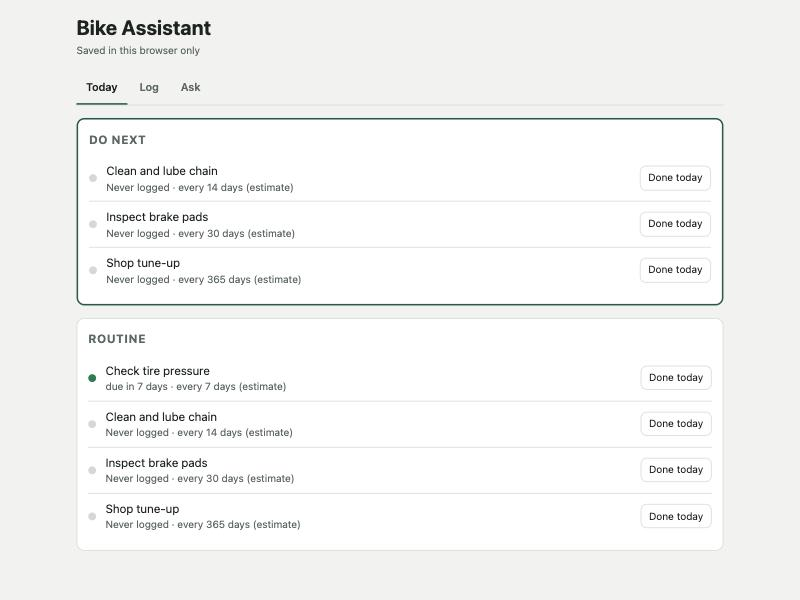
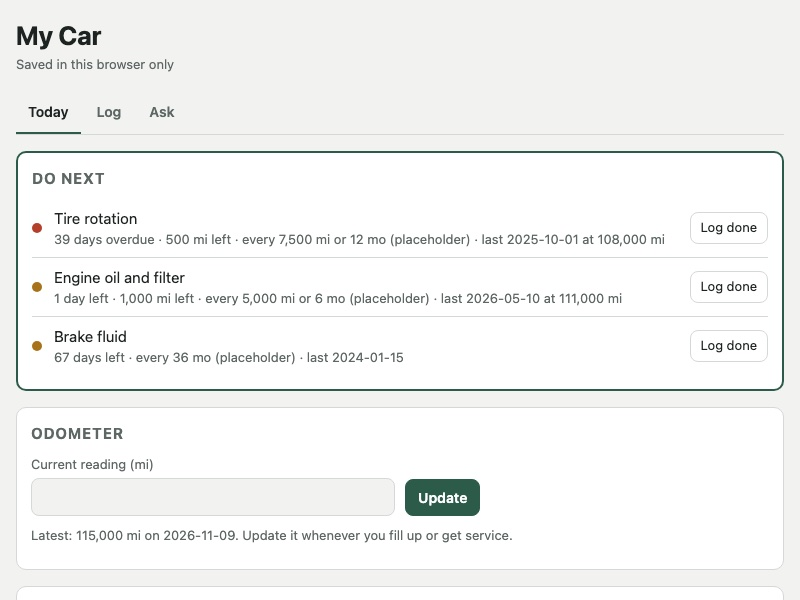
Replace the bike example template with a car starter
The starter now mirrors the car assistant: items due by miles or months,
an odometer, recording past services, deleting records, and intervals
labeled as placeholders. README and screenshot updated.

diff --git a/template/starter.html b/template/starter.html
@@ -3,13 +3,15 @@
 <head>
 <meta charset="utf-8">
 <meta name="viewport" content="width=device-width,initial-scale=1">
-<title>Starter Assistant</title>
+<title>Car Assistant Starter</title>
 <!--
-  Starter assistant: a minimal, working version of the pattern in docs/architecture.md.
+  Car assistant starter: a minimal, working version of the pattern in docs/architecture.md
+  (a small version of the car assistant described in this repo).
   - Open this file in any browser: data saves in that browser (localStorage).
   - Publish it as a Claude Artifact with capabilities {db:{}, sample:{}}: data saves in the
     Artifact database (Claude can read/write it from chat) and the "Ask Claude" box turns on.
-  To make it yours, edit CONFIG below, or ask Claude: "Adapt this starter into a [bike] assistant: ..."
+  To make it yours, edit CONFIG below with the intervals from YOUR owner's manual.
+  To use it for something else (bike, plants, a pet), ask Claude to adapt it; see README.md.
 -->
 <style>
 :root{--bg:#f2f3f1;--surface:#fff;--ink:#1c2320;--muted:#5d6763;--line:#d4d9d5;--accent:#2c5c49;--accent-ink:#fff;
@@ -22,25 +24,28 @@
 body{margin:0;background:var(--bg);color:var(--ink);font-size:15px;line-height:1.5}
 .wrap{max-width:860px;margin:0 auto;padding:16px 16px 48px;display:flex;flex-direction:column;gap:16px}
 h1{font-size:26px;margin:0}h2{font-size:15px;margin:0;text-transform:uppercase;letter-spacing:.06em;color:var(--muted)}
+h3{font-size:14px;margin:6px 0 0}
 .sub{color:var(--muted);font-size:13px}
 .tabs{display:flex;gap:4px;border-bottom:1px solid var(--line);overflow-x:auto}
 .tabs button{border:0;background:none;color:var(--muted);font:inherit;font-weight:600;font-size:14px;padding:10px 12px;border-bottom:2px solid transparent;cursor:pointer;white-space:nowrap}
 .tabs button[aria-selected="true"]{color:var(--ink);border-bottom-color:var(--accent)}
+.panel{display:flex;flex-direction:column;gap:16px}
 .card{background:var(--surface);border:1px solid var(--line);border-radius:10px;padding:14px;display:flex;flex-direction:column;gap:10px;min-width:0}
 .next{border:2px solid var(--accent)}
 .row{display:grid;grid-template-columns:12px minmax(0,1fr) auto;gap:10px;align-items:center;padding:8px 0;border-top:1px solid var(--line)}
-.row:first-of-type{border-top:0}
+.row:first-child{border-top:0}
 .dot{width:10px;height:10px;border-radius:50%}.ok{background:var(--ok)}.soon{background:var(--soon)}.over{background:var(--over)}.none{background:var(--line)}
 .row small{display:block;color:var(--muted);font-size:13px}
 button.act{border:1px solid var(--accent);background:var(--accent);color:var(--accent-ink);border-radius:8px;padding:7px 12px;font:inherit;font-weight:600;font-size:14px;cursor:pointer}
-button.ghost{border:1px solid var(--line);background:none;color:var(--ink);border-radius:8px;padding:5px 10px;font:inherit;font-size:13px;cursor:pointer}
+button.ghost{border:1px solid var(--line);background:none;color:var(--ink);border-radius:8px;padding:5px 10px;font:inherit;font-size:13px;cursor:pointer;white-space:nowrap}
 form.grid{display:grid;grid-template-columns:repeat(auto-fit,minmax(140px,1fr));gap:10px;align-items:end}
 label{display:flex;flex-direction:column;gap:4px;font-size:13px;color:var(--muted);min-width:0}
-input,textarea{font:inherit;color:var(--ink);background:var(--bg);border:1px solid var(--line);border-radius:8px;padding:8px;width:100%}
+input,textarea,select{font:inherit;color:var(--ink);background:var(--bg);border:1px solid var(--line);border-radius:8px;padding:8px;width:100%}
 .wide{grid-column:1/-1}
-.empty{color:var(--muted);border:1px dashed var(--line);border-radius:8px;padding:14px}
+.empty{color:var(--muted);border:1px dashed var(--line);border-radius:8px;padding:14px;margin:0}
+.msg{font-size:13px;color:var(--over);min-height:0}
 .answer{white-space:pre-wrap}
-:is(button,input,textarea):focus-visible{outline:2px solid var(--accent);outline-offset:2px}
+:is(button,input,textarea,select):focus-visible{outline:2px solid var(--accent);outline-offset:2px}
 [hidden]{display:none!important}
 </style>
 </head>
@@ -53,20 +58,41 @@ input,textarea{font:inherit;color:var(--ink);background:var(--bg);border:1px sol
     <button role="tab" data-tab="ask" aria-selected="false">Ask</button>
   </nav>
 
-  <section id="tab-today" class="card next" role="tabpanel">
-    <h2>Do next</h2><div id="next"></div>
-  </section>
-  <section id="tab-today2" class="card" role="tabpanel">
-    <h2>Routine</h2><div id="tasks"></div>
-  </section>
+  <div id="tab-today" class="panel" role="tabpanel">
+    <section class="card next"><h2>Do next</h2><div id="next"></div></section>
+
+    <section class="card">
+      <h2>Odometer</h2>
+      <form class="grid" id="odoform" autocomplete="off">
+        <label>Current reading (mi)<input id="o-mi" type="number" min="0" step="1" inputmode="numeric" required></label>
+        <div><button class="act" type="submit">Update</button></div>
+      </form>
+      <div class="sub" id="odonote"></div><div class="msg" id="odomsg"></div>
+    </section>
+
+    <section class="card">
+      <h2>Maintenance</h2>
+      <p class="sub" style="margin:0">Whichever limit comes first, miles or months. The intervals below are placeholders: replace them with your owner's manual (edit CONFIG, or ask Claude).</p>
+      <div id="tasks"></div>
+      <h3 id="svc">Record a service</h3>
+      <form class="grid" id="svcform" autocomplete="off">
+        <label>Item<select id="s-task" required></select></label>
+        <label>Date done<input type="date" id="s-date" required></label>
+        <label>Odometer then (mi)<input id="s-mi" type="number" min="0" step="1" inputmode="numeric" placeholder="optional"></label>
+        <div><button class="act" type="submit">Save</button></div>
+      </form>
+      <div class="sub">Use this for work done today or months ago (e.g. "oil change on Sep 18 at 113,240 mi").</div>
+    </section>
+  </div>
 
   <section id="tab-log" class="card" role="tabpanel" hidden>
     <h2>Add a record</h2>
     <form class="grid" id="logform" autocomplete="off">
       <label>Date<input type="date" id="f-date" required></label>
-      <label class="wide">What happened<input id="f-title" maxlength="120" required placeholder="e.g. Replaced chain"></label>
-      <label>Cost $ (optional)<input id="f-cost" type="number" min="0" step="0.01" inputmode="decimal"></label>
-      <label class="wide">Notes<textarea id="f-note" rows="2" maxlength="600" placeholder="What the shop said, what to watch"></textarea></label>
+      <label class="wide">What happened<input id="f-title" maxlength="120" required placeholder="e.g. Check-engine light came on; shop found loose gas cap"></label>
+      <label>Odometer (mi)<input id="f-mi" type="number" min="0" step="1" inputmode="numeric" placeholder="optional"></label>
+      <label>Cost $<input id="f-cost" type="number" min="0" step="0.01" inputmode="decimal" placeholder="optional"></label>
+      <label class="wide">Notes<textarea id="f-note" rows="2" maxlength="600" placeholder="What the shop said, what was quoted vs billed, what to watch"></textarea></label>
       <div><button class="act" type="submit">Save record</button></div>
     </form>
     <h2>History</h2><div id="log"></div>
@@ -75,9 +101,9 @@ input,textarea{font:inherit;color:var(--ink);background:var(--bg);border:1px sol
 
   <section id="tab-ask" class="card" role="tabpanel" hidden>
     <h2>Ask Claude</h2>
-    <p class="sub" id="asknote">Claude sees your routine and records for this one question. It has no memory between questions.</p>
+    <p class="sub" id="asknote">Claude sees your odometer, maintenance status and records for this one question. It has no memory between questions.</p>
     <form id="askform" autocomplete="off" style="display:flex;flex-direction:column;gap:8px">
-      <textarea id="q" rows="3" maxlength="800" placeholder="e.g. What should I do this weekend, and why?"></textarea>
+      <textarea id="q" rows="3" maxlength="800" placeholder="e.g. I'm driving 600 miles next weekend. What should I check or do first?"></textarea>
       <div><button class="act" type="submit" id="askbtn">Ask</button></div>
     </form>
     <div class="answer" id="answer" aria-live="polite"></div>
@@ -87,18 +113,22 @@ input,textarea{font:inherit;color:var(--ink);background:var(--bg);border:1px sol
 <script>
 /* ===== 1. CONFIG: edit this to make it yours (reference data lives in the page) ===== */
 const CONFIG = {
-  name: "Bike Assistant",
-  subject: "my road bike",
-  // Routine tasks. everyDays is the interval; "source" says where the interval came from.
+  name: "My Car",
+  subject: "my car",            // e.g. "my 2015 Nissan Rogue", so Ask Claude knows the vehicle
+  // Each item is due at everyMi miles OR everyMo months, whichever comes first. everyMi: null = time only.
+  // source: where the interval came from. These are common placeholders, NOT your car's schedule.
   tasks: [
-    { id: "tires",  name: "Check tire pressure",        everyDays: 7,   source: "estimate" },
-    { id: "chain",  name: "Clean and lube chain",       everyDays: 14,  source: "estimate" },
-    { id: "brakes", name: "Inspect brake pads",         everyDays: 30,  source: "estimate" },
-    { id: "tuneup", name: "Shop tune-up",               everyDays: 365, source: "estimate" }
+    { id: "oil",    name: "Engine oil and filter", everyMi: 5000,  everyMo: 6,  source: "placeholder" },
+    { id: "rotate", name: "Tire rotation",         everyMi: 7500,  everyMo: 12, source: "placeholder" },
+    { id: "cabin",  name: "Cabin air filter",      everyMi: 15000, everyMo: 12, source: "placeholder" },
+    { id: "air",    name: "Engine air filter",     everyMi: 30000, everyMo: 36, source: "placeholder" },
+    { id: "brakefl",name: "Brake fluid",           everyMi: null,  everyMo: 36, source: "placeholder" },
+    { id: "wipers", name: "Wiper blades",          everyMi: null,  everyMo: 12, source: "placeholder" }
   ]
 };
 
 /* ===== 2. STORAGE: Artifact database when available, else this browser ===== */
+// Collections: "log" (free records), "done" (services: {task, date, mi}), "odo" (odometer readings: {date, mi}).
 const Store = {
   db: null,
   async init() {
@@ -125,16 +155,43 @@ const Store = {
 /* ===== 3. LOGIC: status is computed from data, never typed ===== */
 const $ = id => document.getElementById(id);
 const today = () => { const d = new Date(); return new Date(d - d.getTimezoneOffset() * 6e4).toISOString().slice(0, 10); };
-const daysSince = d => Math.floor((Date.parse(today()) - Date.parse(d)) / 864e5);
-let S = { log: [], done: [] };
+const DAY = 864e5;
+const fmt = n => Number(n).toLocaleString("en-US");
+const numOrNull = v => v === "" || v == null ? null : Number(v);
+const addMonths = (date, n) => { const [y, m, d] = date.split("-").map(Number); return new Date(Date.UTC(y, m - 1 + n, d)).toISOString().slice(0, 10); };
+let S = { log: [], done: [], odo: [] };
 
-function status(task) {
-  const last = S.done.filter(d => d.task === task.id).map(d => d.date).sort().pop();
-  if (!last) return { st: "none", text: "Never logged", frac: 2 };
-  const left = task.everyDays - daysSince(last), frac = daysSince(last) / task.everyDays;
-  return { st: frac >= 1 ? "over" : frac >= 0.85 ? "soon" : "ok", frac, last,
-    text: left < 0 ? -left + " days overdue" : left === 0 ? "due today" : "due in " + left + " days" };
+// Current odometer = highest reading anywhere (odometers only go up).
+function odometer() {
+  let best = null;
+  for (const r of [...S.odo, ...S.done, ...S.log]) if (r.mi != null && Number.isFinite(+r.mi) && (!best || +r.mi > best.mi)) best = { mi: +r.mi, date: r.date };
+  return best;
 }
+const lastDone = t => S.done.filter(d => d.task === t.id).sort((a, b) => a.date.localeCompare(b.date) || (a.mi || 0) - (b.mi || 0)).pop();
+
+function status(t) {
+  const last = lastDone(t);
+  if (!last) return { st: "none", frac: -1, text: "No service recorded yet" };
+  const parts = []; let frac = 0;
+  if (t.everyMo) {
+    const due = addMonths(last.date, t.everyMo), span = Date.parse(due) - Date.parse(last.date);
+    const dLeft = Math.round((Date.parse(due) - Date.parse(today())) / DAY);
+    frac = Math.max(frac, (Date.parse(today()) - Date.parse(last.date)) / span);
+    const days = n => n + (n === 1 ? " day" : " days");
+    parts.push(dLeft < 0 ? days(-dLeft) + " overdue" : dLeft === 0 ? "due today" : days(dLeft) + " left");
+  }
+  const cur = odometer();
+  if (t.everyMi) {
+    if (last.mi == null || !cur) parts.push("miles unknown");
+    else {
+      const used = cur.mi - last.mi, left = t.everyMi - used;
+      frac = Math.max(frac, used / t.everyMi);
+      parts.push(left < 0 ? fmt(-left) + " mi overdue" : fmt(left) + " mi left");
+    }
+  }
+  return { st: frac >= 1 ? "over" : frac >= 0.85 ? "soon" : "ok", frac, last, text: parts.join(" · ") };
+}
+const every = t => "every " + [t.everyMi ? fmt(t.everyMi) + " mi" : null, t.everyMo ? t.everyMo + " mo" : null].filter(Boolean).join(" or ");
 const el = (tag, attrs = {}, ...kids) => { const e = document.createElement(tag);
   for (const [k, v] of Object.entries(attrs)) k.startsWith("on") ? e.addEventListener(k.slice(2), v) : e.setAttribute(k, v);
   e.append(...kids.filter(k => k != null)); return e; };
@@ -142,47 +199,94 @@ const el = (tag, attrs = {}, ...kids) => { const e = document.createElement(tag)
 /* ===== 4. RENDER ===== */
 function taskRow(t) {
   const s = status(t);
+  const lastTxt = s.last ? "last " + s.last.date + (s.last.mi != null ? " at " + fmt(s.last.mi) + " mi" : "") : "";
   return el("div", { class: "row" }, el("span", { class: "dot " + s.st }),
-    el("div", {}, t.name, el("small", {}, s.text + " · every " + t.everyDays + " days (" + t.source + ")")),
-    el("button", { class: "ghost", type: "button", onclick: () => markDone(t) }, "Done today"));
+    el("div", {}, t.name, el("small", {}, s.text + " · " + every(t) + " (" + t.source + ")" + (lastTxt ? " · " + lastTxt : ""))),
+    el("button", { class: "ghost", type: "button", onclick: () => prefillService(t) }, "Log done"));
+}
+function infoRow(text, sub) {
+  return el("div", { class: "row" }, el("span", { class: "dot none" }), el("div", {}, text, sub ? el("small", {}, sub) : null), el("span"));
+}
+function deleteButton(col, id) {
+  // Two taps to delete (no confirm() dialog: sandboxed pages may block it).
+  const b = el("button", { class: "ghost", type: "button" }, "Delete");
+  let armed = false, timer;
+  b.addEventListener("click", async () => {
+    if (!armed) { armed = true; b.textContent = "Tap again"; timer = setTimeout(() => { armed = false; b.textContent = "Delete"; }, 3000); return; }
+    clearTimeout(timer); b.disabled = true;
+    try { await Store.remove(col, id); S[col] = S[col].filter(r => r.id !== id); render(); }
+    catch (e) { b.disabled = false; b.textContent = "Couldn't delete"; }
+  });
+  return b;
 }
 function render() {
   $("title").textContent = CONFIG.name;
   $("mode").textContent = Store.db ? "Saved to this Artifact's database" : "Saved in this browser only";
-  const ranked = CONFIG.tasks.map(t => [t, status(t)]).filter(([, s]) => s.st !== "ok").sort((a, b) => b[1].frac - a[1].frac).slice(0, 3);
-  $("next").replaceChildren(...(ranked.length ? ranked.map(([t]) => taskRow(t))
-    : [el("p", { class: "empty" }, "Nothing due. You're caught up.")]));
+  const cur = odometer();
+  $("odonote").textContent = cur ? "Latest: " + fmt(cur.mi) + " mi on " + cur.date + ". Update it whenever you fill up or get service."
+    : "Not set yet. Mileage-based items can't be checked until you enter it.";
+
+  // Do next: missing odometer, then overdue/soon by urgency, then setup reminder. Max 3.
+  const next = [];
+  if (!cur) next.push(infoRow("Enter your current odometer", "Below, under Odometer."));
+  CONFIG.tasks.map(t => [t, status(t)]).filter(([, s]) => s.st === "over" || s.st === "soon")
+    .sort((a, b) => b[1].frac - a[1].frac).forEach(([t]) => next.push(taskRow(t)));
+  const unset = CONFIG.tasks.filter(t => !lastDone(t)).length;
+  if (unset) next.push(infoRow(unset + " of " + CONFIG.tasks.length + " items have no service recorded",
+    "Add when each was last done under Record a service (a receipt or your service history has the dates)."));
+  $("next").replaceChildren(...(next.length ? next.slice(0, 3) : [el("p", { class: "empty" }, "Nothing due. You're caught up.")]));
   $("tasks").replaceChildren(...CONFIG.tasks.map(taskRow));
-  const log = [...S.log].sort((a, b) => (b.date || "").localeCompare(a.date || ""));
-  $("log").replaceChildren(...(log.length ? log.map(r => el("div", { class: "row" }, el("span", { class: "dot none" }),
-      el("div", {}, r.date + " · " + r.title, r.note ? el("small", {}, r.note) : null),
-      el("span", { class: "sub" }, r.cost != null ? "$" + Number(r.cost).toFixed(2) : "")))
+
+  const hist = [
+    ...S.log.map(r => ({ col: "log", r, title: r.title, note: r.note, cost: r.cost })),
+    ...S.done.map(r => ({ col: "done", r, title: (CONFIG.tasks.find(t => t.id === r.task) || { name: r.task }).name + " (service)" }))
+  ].sort((a, b) => (b.r.date || "").localeCompare(a.r.date || ""));
+  $("log").replaceChildren(...(hist.length ? hist.map(h => el("div", { class: "row" }, el("span", { class: "dot none" }),
+      el("div", {}, h.r.date + " · " + h.title,
+        el("small", {}, [h.r.mi != null ? fmt(h.r.mi) + " mi" : null, h.cost != null ? "$" + Number(h.cost).toFixed(2) : null, h.note || null].filter(Boolean).join(" · ") || null)),
+      deleteButton(h.col, h.r.id)))
     : [el("p", { class: "empty" }, "No records yet. Add one above, or send Claude a photo of a receipt and ask it to log it here.")]));
   $("export").hidden = !!Store.db;
 }
 
 /* ===== 5. ACTIONS ===== */
-async function markDone(t) {
-  const row = { task: t.id, date: today() };
-  await Store.put("done", t.id + "-" + row.date, row);
-  S.done.push({ id: t.id + "-" + row.date, ...row }); render();
+function prefillService(t) {
+  $("s-task").value = t.id; $("s-date").value = today();
+  const cur = odometer(); $("s-mi").value = cur ? cur.mi : "";
+  $("svc").scrollIntoView({ behavior: "smooth", block: "start" }); $("s-mi").focus({ preventScroll: true });
 }
+$("svcform").addEventListener("submit", async e => {
+  e.preventDefault();
+  const row = { task: $("s-task").value, date: $("s-date").value, mi: numOrNull($("s-mi").value) };
+  const id = row.task + "-" + row.date;
+  await Store.put("done", id, row); S.done = S.done.filter(r => r.id !== id).concat({ id, ...row });
+  $("s-mi").value = ""; render();
+});
+$("odoform").addEventListener("submit", async e => {
+  e.preventDefault();
+  const mi = Number($("o-mi").value), cur = odometer();
+  if (cur && mi < cur.mi) { $("odomsg").textContent = "That's lower than an earlier reading (" + fmt(cur.mi) + " mi). Check the number."; return; }
+  $("odomsg").textContent = "";
+  const row = { date: today(), mi }, id = row.date;
+  await Store.put("odo", id, row); S.odo = S.odo.filter(r => r.id !== id).concat({ id, ...row });
+  e.target.reset(); render();
+});
 $("logform").addEventListener("submit", async e => {
   e.preventDefault();
-  const cost = $("f-cost").value;
-  const row = { date: $("f-date").value, title: $("f-title").value.trim(), note: $("f-note").value.trim(), cost: cost === "" ? null : Number(cost) };
+  const row = { date: $("f-date").value, title: $("f-title").value.trim(), note: $("f-note").value.trim(),
+    mi: numOrNull($("f-mi").value), cost: numOrNull($("f-cost").value) };
   const id = row.date + "-" + Date.now().toString(36);
   await Store.put("log", id, row); S.log.push({ id, ...row });
   e.target.reset(); $("f-date").value = today(); render();
 });
 $("export").addEventListener("click", () => {
   const blob = new Blob([JSON.stringify(S, null, 2)], { type: "application/json" });
-  const a = el("a", { href: URL.createObjectURL(blob), download: "assistant-data.json" }); a.click();
+  const a = el("a", { href: URL.createObjectURL(blob), download: "car-assistant-data.json" }); a.click();
 });
 document.querySelectorAll(".tabs button").forEach(b => b.addEventListener("click", () => {
   document.querySelectorAll(".tabs button").forEach(x => x.setAttribute("aria-selected", x === b));
   const t = b.dataset.tab;
-  $("tab-today").hidden = $("tab-today2").hidden = t !== "today"; $("tab-log").hidden = t !== "log"; $("tab-ask").hidden = t !== "ask";
+  $("tab-today").hidden = t !== "today"; $("tab-log").hidden = t !== "log"; $("tab-ask").hidden = t !== "ask";
 }));
 
 /* Ask Claude: only inside a Claude Artifact with the `sample` capability. No memory, so send everything it needs. */
@@ -190,8 +294,11 @@ let sample = null;
 $("askform").addEventListener("submit", async e => {
   e.preventDefault();
   const q = $("q").value.trim(); if (!q || !sample) return;
-  const data = { today: today(), routine: CONFIG.tasks.map(t => ({ name: t.name, everyDays: t.everyDays, ...status(t) })), records: S.log.slice(-50) };
-  const prompt = "You are a practical assistant for " + CONFIG.subject + ". Use only the data below; say when the data can't answer. " +
+  const data = { today: today(), vehicle: CONFIG.subject, odometer: odometer(),
+    maintenance: CONFIG.tasks.map(t => { const s = status(t); return { name: t.name, interval: every(t), intervalSource: t.source, status: s.st, detail: s.text, last: s.last || null }; }),
+    records: S.log.slice(-50) };
+  const prompt = "You are a practical car-maintenance assistant for " + CONFIG.subject + ". Use only the data below and general car knowledge; " +
+    "say when the data can't answer, and say when an interval is a placeholder rather than the manufacturer's. " +
     "Answer in at most 6 short lines, most important first.\n\nDATA:\n" + JSON.stringify(data) + "\n\nQUESTION: " + q;
   $("askbtn").disabled = true; $("answer").textContent = "Thinking…";
   try { const r = await sample(prompt, { cache: false, onText: ({ text }) => { $("answer").textContent = text; } }); $("answer").textContent = r.text; }
@@ -201,9 +308,10 @@ $("askform").addEventListener("submit", async e => {
 
 /* ===== 6. START ===== */
 (async () => {
-  $("f-date").value = today();
+  $("f-date").value = $("s-date").value = today();
+  $("s-task").replaceChildren(...CONFIG.tasks.map(t => el("option", { value: t.id }, t.name)));
   await Store.init();
-  try { [S.log, S.done] = await Promise.all([Store.all("log"), Store.all("done")]); } catch (e) { S = { log: [], done: [] }; }
+  try { [S.log, S.done, S.odo] = await Promise.all([Store.all("log"), Store.all("done"), Store.all("odo")]); } catch (e) { S = { log: [], done: [], odo: [] }; }
   render();
   if (window.claude && typeof claude.use === "function") { try { sample = await claude.use("sample"); } catch (e) { sample = null; } }
   if (!sample) { $("askform").hidden = true; $("asknote").textContent = "Ask Claude works when this page is published as a Claude Artifact with the sample capability."; }

diff --git a/README.md b/README.md
@@ -38,9 +38,11 @@ Which capabilities you get depends on your plan and organization settings.
 
 ## Or start from the template (10 minutes)
 
-[template/starter.html](template/starter.html) is a working, minimal assistant: a routine with computed due dates, a "Do next" box, a records log, and an Ask Claude box. It's set up as a bike assistant as an example.
+[template/starter.html](template/starter.html) is a working, cut-down version of my car assistant: maintenance items due by miles or months (whichever comes first), an odometer, a "Do next" box, a service and repair log, and an Ask Claude box. The intervals are marked as placeholders; replace them from your owner's manual. It skips the 3D model, watch list and dent tracker. Add those later with the prompts in [prompts/01-car-assistant.md](prompts/01-car-assistant.md).
 
-![Starter template: Do next box and routine list](docs/img/starter.jpg)
+![Car starter template: Do next box with an overdue tire rotation, oil change due soon, and the odometer](docs/img/starter.jpg)
+
+*The screenshot uses example data.*
 
 **Try it locally:**
 
@@ -54,14 +56,16 @@ open claude-life-assistants/template/starter.html
 
 (On Windows or Linux, double-click the file instead.) Data saves in that browser.
 
-**Make it yours with Claude:** attach `starter.html` to a new chat and paste:
+**Make it yours with Claude:** attach `starter.html` (and a photo of your owner's manual's maintenance schedule) to a new chat and paste:
 
 ```text
-Adapt this starter into an assistant for [my bike / my plants / my dog / my home lab].
-Keep its structure: CONFIG at the top, storage that uses the Artifact database when available, computed "Do next".
-Replace CONFIG.tasks with real intervals for [subject] and tell me the source for each interval, or mark it "estimate".
-Then publish it as an Artifact with capabilities {db, sample}, with every db collection readable and writable only by editors.
+This is a starter car assistant. My car is a [year make model], currently at [odometer] miles.
+Replace CONFIG.tasks with the maintenance schedule from the attached manual pages. Set each item's source to the page it came from, or "estimate" if it isn't in the manual.
+Keep the structure: CONFIG at the top, storage that uses the Artifact database when available, computed "Do next".
+Then publish it as an Artifact with capabilities {db, sample}, with every db collection (log, done, odo) readable and writable only by editors.
 ```
+
+Not a car? Use the same file: *"Adapt this starter into an assistant for [my bike / my plants / my dog]. Swap the miles limit for whatever usage counter fits (ride hours, none) and keep everything else."*
 
 ---
 
@@ -82,7 +86,7 @@ prompts/
   02-room-assistant.md       Build prompt + weekly prompts for a room assistant
   03-wardrobe-assistant.md   Build prompt + weekly prompts for a wardrobe/stylist
 template/
-  starter.html               Minimal working assistant; works offline, lights up inside Claude
+  starter.html               Minimal working car assistant; works offline, lights up inside Claude
   sample-data/*.json         Anonymized example records showing the data shapes
 LICENSE                      MIT
 ```
